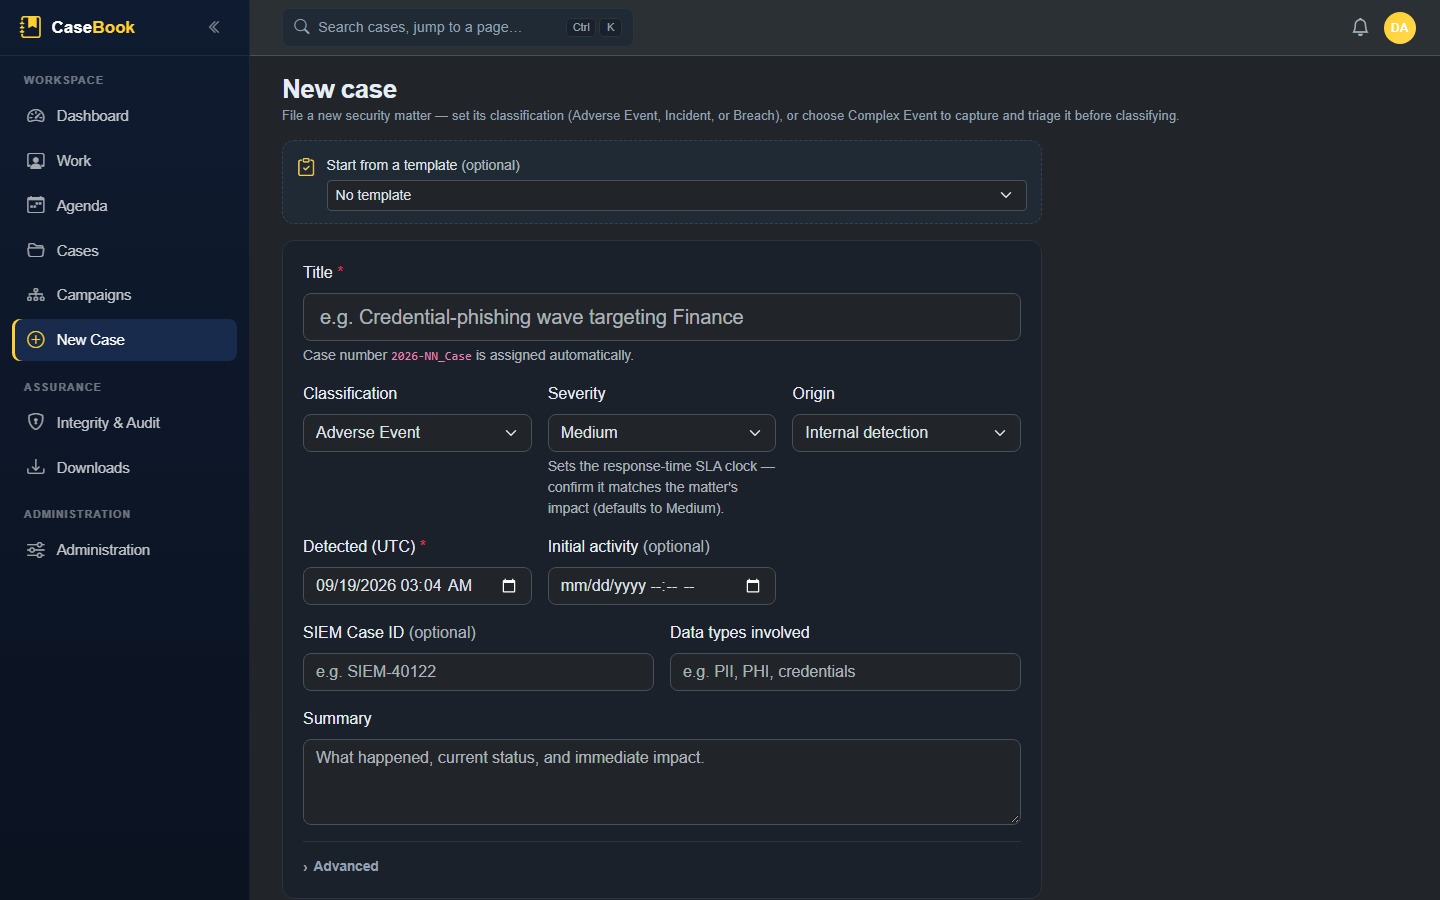
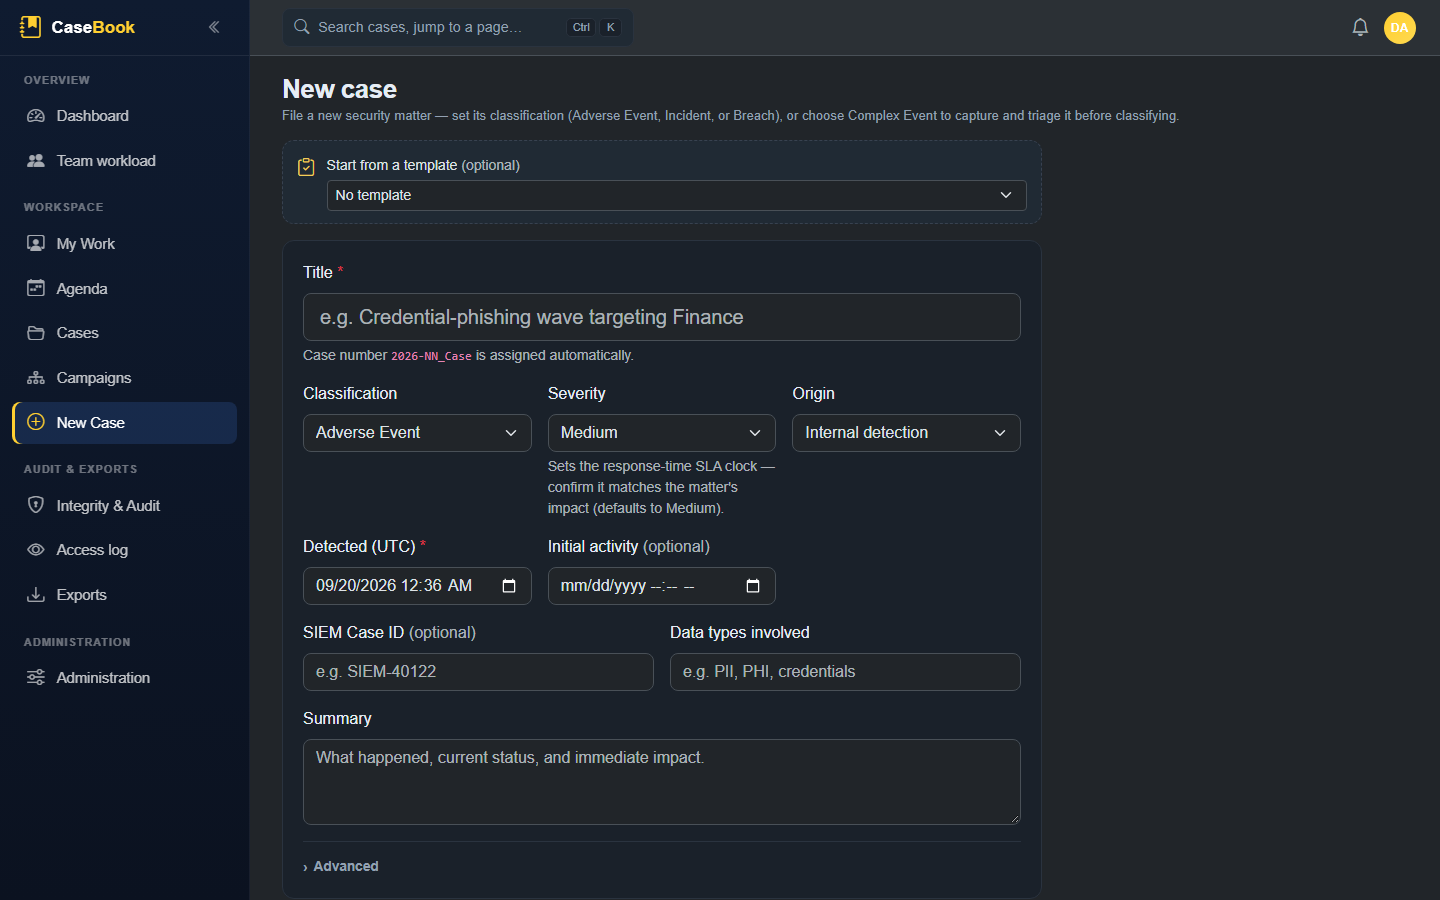
Refresh README screenshots for the IA changes (H-10)
Regenerate all docs/screenshots after the UX-14..UX-19 navigation work:
every shot now shows the restructured sidebar (Overview / Workspace /
Audit & Exports) and, on admin pages, the intent-grouped rail. Update the
capture manifest for the two moved routes — Access log (/access-log) and
the consolidated Regulatory deadlines page (replacing the old
notification-rules shot) — and align the README heading/alt text.

diff --git a/README.md b/README.md
@@ -118,7 +118,7 @@ an element no case uses can be deleted outright. Every change is audited.
 
 ![Data elements](docs/screenshots/data-elements.png)
 
-### Notification deadlines
+### Regulatory deadlines
 Per-jurisdiction **regulatory notification deadlines** (e.g. New York / NYDFS Part 500 = 72h) as
 admin-managed reference data — add, retime, or archive **without a release**. Each rule's code is matched
 against the notification jurisdictions on the case's data elements, so a case's involved data determines
@@ -128,7 +128,7 @@ detection). The countdown surfaces on the case (a header badge and a per-jurisdi
 one-click **"Mark reported"**) and aggregates on the leadership dashboard (detected→reported mean,
 awaiting-report, and at-risk/overdue) — reminders only, never an automatic state change.
 
-![Notification deadlines](docs/screenshots/notification-rules.png)
+![Regulatory deadlines](docs/screenshots/regulatory-deadlines.png)
 
 ### Configuration bundle
 Export an instance's **editable configuration** — operational & taxonomy settings, roles & AD mappings,
